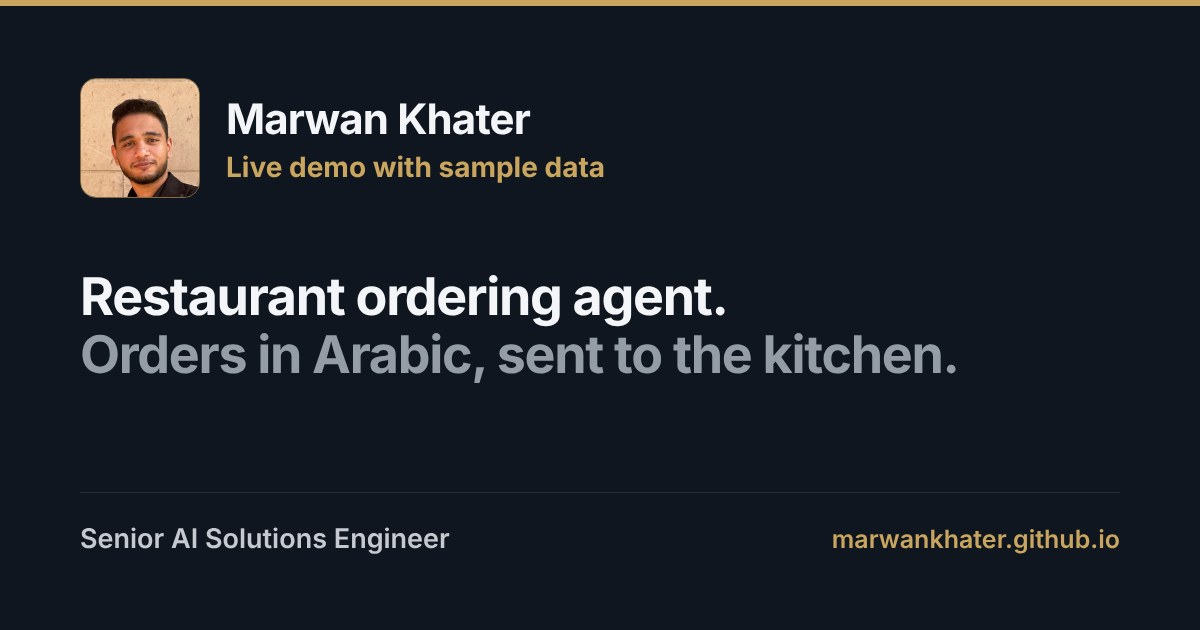
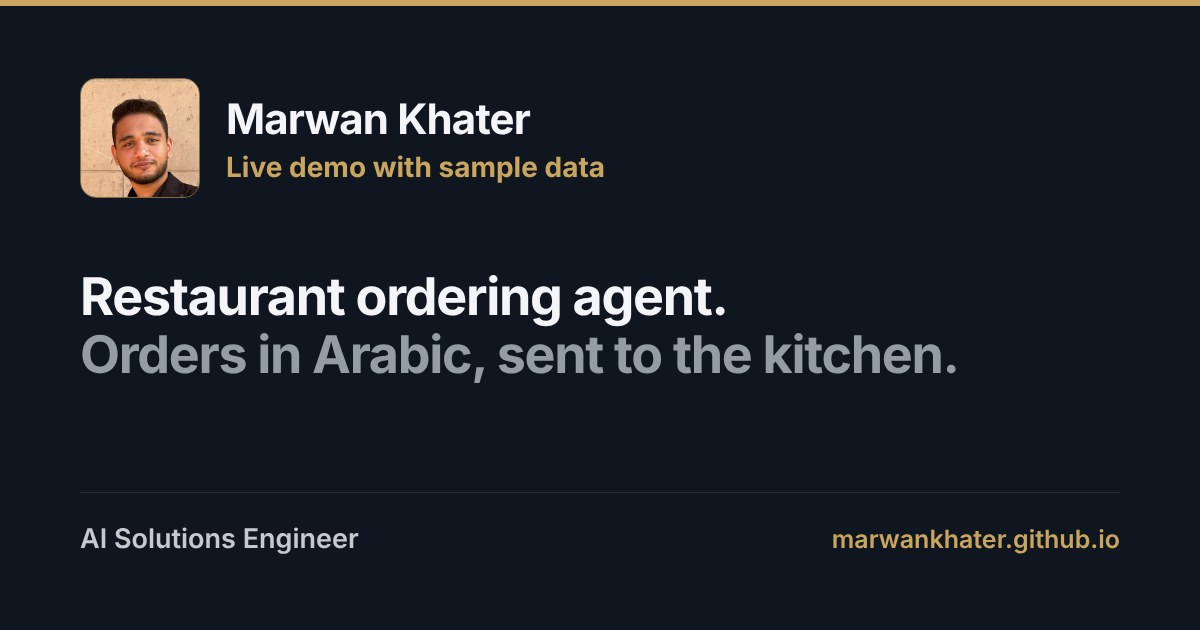
Headline: AI Solutions Engineer; Senior stays on the AR-Corporates role

Changed region(s): [[0.0617, 0.8444, 0.37, 0.8746]]

diff --git a/index.html b/index.html
@@ -3,12 +3,12 @@
 <head>
 <meta charset="utf-8">
 <meta name="viewport" content="width=device-width, initial-scale=1, viewport-fit=cover">
-<title>Marwan Khater, Senior AI Solutions Engineer</title>
-<meta name="description" content="Senior AI Solutions Engineer in Cairo. I turn business requirements into clear technical specs, then build and implement AI agents, Odoo ERP systems and full-stack apps until they run in production.">
+<title>Marwan Khater, AI Solutions Engineer</title>
+<meta name="description" content="AI Solutions Engineer in Cairo. I turn business requirements into clear technical specs, then build and implement AI agents, Odoo ERP systems and full-stack apps until they run in production.">
 <link rel="canonical" href="https://marwankhater.github.io/">
 <meta name="theme-color" content="#10161F">
 <meta property="og:type" content="profile">
-<meta property="og:title" content="Marwan Khater, Senior AI Solutions Engineer">
+<meta property="og:title" content="Marwan Khater, AI Solutions Engineer">
 <meta property="og:description" content="I turn business requirements into clear technical specs, then build and implement AI agents and Odoo ERP systems until they run in production.">
 <meta property="og:url" content="https://marwankhater.github.io/">
 <meta property="og:image" content="https://marwankhater.github.io/assets/og/home.jpg">
@@ -184,7 +184,7 @@
     <img class="face" src="assets/img/marwan-440.webp" srcset="assets/img/marwan-260.webp 260w, assets/img/marwan-440.webp 440w" sizes="(max-width: 640px) 120px, (max-width: 860px) 160px, 200px" width="200" height="250" fetchpriority="high" decoding="async" alt="Marwan Khater">
     <div>
       <h1 id="h-name">Marwan Khater</h1>
-      <p class="role">Senior AI Solutions Engineer</p>
+      <p class="role">AI Solutions Engineer · AI Agents &amp; Odoo ERP</p>
       <p class="where">Cairo, Egypt. Projects for companies in Egypt, Saudi Arabia and Europe.</p>
       <p class="summary">I turn what a business needs into a clear technical spec, then build and implement it until it runs in production. My work is AI agents, Odoo ERP systems and full-stack apps, delivered with the client's team from the first meeting to go&#8209;live.</p>
     </div>
